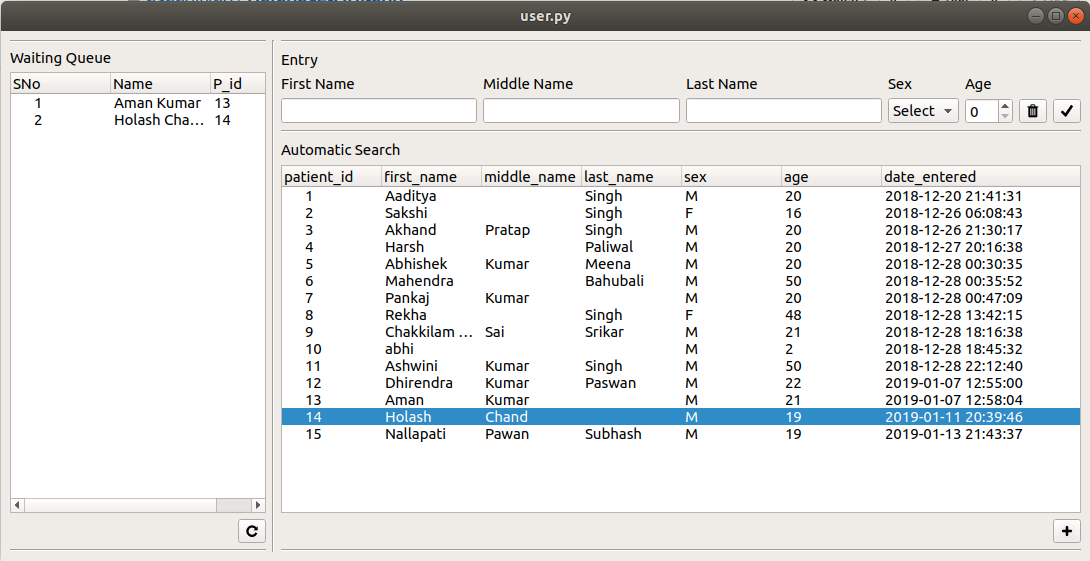
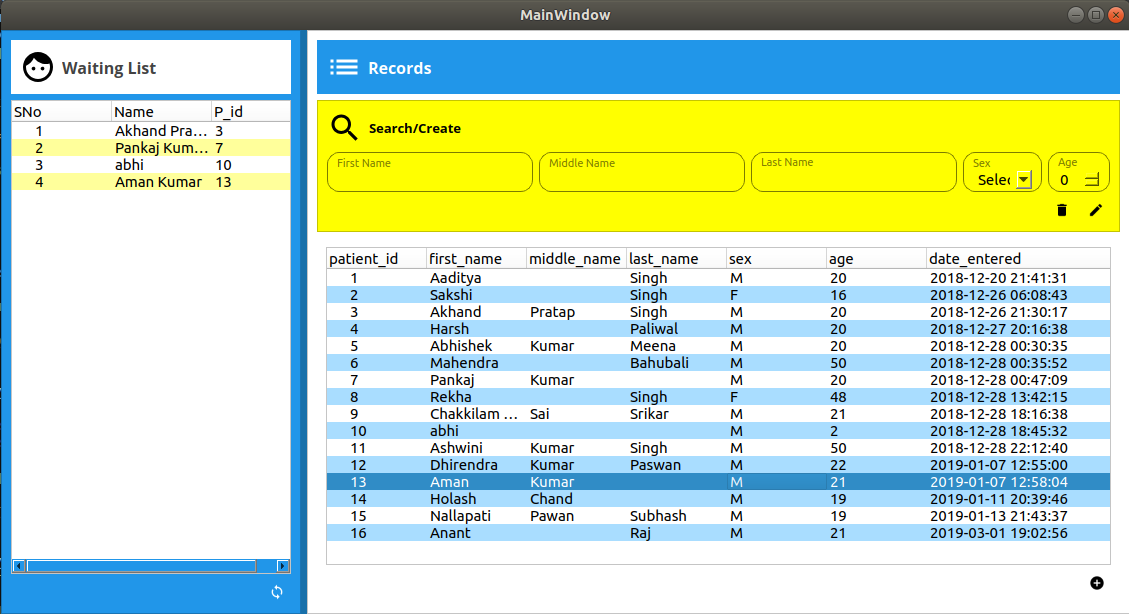
Added alternate row color and updated screenshot.

diff --git a/entry.py b/entry.py
@@ -1,44 +1,39 @@
-import sys
-from PyQt5 import QtWidgets, uic
+from PyQt5 import QtWidgets
 from PyQt5.QtCore import pyqtSlot
-from queue import Queue
 
-import DB_manager
 from utils import SimpleHandler, DBHandler
 
 
 class Entry(QtWidgets.QWidget):
     """docstring for App"""
 
-    def __init__(self, database, id_table_name, visit_table_name, qu=None):
+    def __init__(self, app=None, database=None, id_table_name=None, visit_table_name=None, qu=None):
         super(Entry, self).__init__()
-        uic.loadUi('entry.ui', self)
-        self.setWindowTitle('APP Pyqt Gui')
-        self.setLayout(self.verticalLayout_3)
+        self.app = app
         self.dbu = database
         self.identityTable = id_table_name
         self.visitTable = visit_table_name
         self.qu = qu
 
         self.total_visits = self.dbu.GetTotalVisits(self.visitTable)[0][0]
-        self.inputs = {'fname': self.fnameLineEdit,
-                       'mname': self.mnameLineEdit,
-                       'lname': self.lnameLineEdit,
-                       'sex': self.sexComboBox,
-                       'age': self.ageSpinBox
+        self.inputs = {'fname': self.app.fnameLineEdit,
+                       'mname': self.app.mnameLineEdit,
+                       'lname': self.app.lnameLineEdit,
+                       'sex': self.app.sexComboBox,
+                       'age': self.app.ageSpinBox
                        }
 
         self.patient_id = None
         self.full_list_present = True
 
-        self.submitPushButton.setEnabled(False)
+        self.app.submitPushButton.setEnabled(False)
         self.inputs['sex'].addItems(['Select', 'M', 'F'])
 
-        self.clearPushButton.clicked.connect(self.reset_age)
-        self.clearPushButton.clicked.connect(self.reset_sex)
-        self.submitPushButton.clicked.connect(self.submit)
-        self.treeWidget.itemClicked.connect(self.save_for_queue)
-        self.addPushButton.clicked.connect(self.add_to_queue)
+        self.app.clearPushButton.clicked.connect(self.reset_age)
+        self.app.clearPushButton.clicked.connect(self.reset_sex)
+        self.app.submitPushButton.clicked.connect(self.submit)
+        self.app.treeWidget.itemClicked.connect(self.save_for_queue)
+        self.app.addPushButton.clicked.connect(self.add_to_queue)
 
         self.inputs['fname'].textChanged.connect(self.query)
         self.inputs['mname'].textChanged.connect(self.query)
@@ -108,11 +103,11 @@ class Entry(QtWidgets.QWidget):
 
     @pyqtSlot()
     def enableSubmitButton(self):
-        self.submitPushButton.setEnabled(True)
+        self.app.submitPushButton.setEnabled(True)
 
     @pyqtSlot()
     def submit(self):
-        self.submitPushButton.setEnabled(False)
+        self.app.submitPushButton.setEnabled(False)
         fname = self.inputs['fname'].text()
         mname = self.inputs['mname'].text()
         lname = self.inputs['lname'].text()
@@ -131,25 +126,15 @@ class Entry(QtWidgets.QWidget):
     def update_tree(self, data):
         col, table = data
         for c in range(len(col)):
-            self.treeWidget.headerItem().setText(c, col[c][0])
+            self.app.treeWidget.headerItem().setText(c, col[c][0])
 
-        self.treeWidget.clear()
+        self.app.treeWidget.clear()
 
         for item in range(len(table)):
-            QtWidgets.QTreeWidgetItem(self.treeWidget)
+            QtWidgets.QTreeWidgetItem(self.app.treeWidget)
             for value in range(len(table[item])):
-                self.treeWidget.topLevelItem(item).setText(value, str(table[item][value]))
+                self.app.treeWidget.topLevelItem(item).setText(value, str(table[item][value]))
 
 
 if __name__ == '__main__':
-
-    db = 'patient_try'
-    identityTable = 'patient'
-    visitTable = 'visits'
-    dbu = DB_manager.DatabaseUtility(db)
-    app = QtWidgets.QApplication(sys.argv)
-    widget = Entry(dbu, identityTable, visitTable, Queue())
-    widget.show()
-    app.exec_()
-    dbu.__del__()
-    app.exit()
+    pass

diff --git a/katar.py b/katar.py
@@ -1,24 +1,20 @@
-import sys
-from queue import Queue
-
 from PyQt5 import QtWidgets, uic
 from PyQt5.QtCore import pyqtSlot
 
-import DB_manager
 from utils import SimpleHandler
 
 
 class Katar(QtWidgets.QWidget):
 
-    def __init__(self, dbu=None, id_table=None, visit_table=None, qu=None):
+    def __init__(self, app=None, dbu=None, id_table=None, visit_table=None, qu=None):
         super(Katar, self).__init__()
-        uic.loadUi('katar.ui', self)
+        self.app = app
         self.dbu = dbu
         self.id_table = id_table
         self.visit_table = visit_table
         self.qu = qu
-        self.setLayout(self.verticalLayout)
-        self.refreshPushButton.clicked.connect(self.update_queue)
+        self.app.setLayout(self.app.verticalLayout)
+        self.app.refreshPushButton.clicked.connect(self.update_queue)
         self.update_queue()
 
     @pyqtSlot(list)
@@ -26,14 +22,14 @@ class Katar(QtWidgets.QWidget):
         col = [['SNo'], ['Name'], ['P_id']]
 
         for c in range(len(col)):
-            self.queueWidget.headerItem().setText(c, col[c][0])
+            self.app.queueTreeWidget.headerItem().setText(c, col[c][0])
 
-        self.queueWidget.clear()
+        self.app.queueTreeWidget.clear()
 
         for item in range(len(table)):
-            QtWidgets.QTreeWidgetItem(self.queueWidget)
+            QtWidgets.QTreeWidgetItem(self.app.queueTreeWidget)
             for value in range(len(table[item])):
-                self.queueWidget.topLevelItem(item).setText(value, str(table[item][value]))
+                self.app.queueTreeWidget.topLevelItem(item).setText(value, str(table[item][value]))
 
     @pyqtSlot()
     def update_queue(self):
@@ -43,13 +39,4 @@ class Katar(QtWidgets.QWidget):
 
 
 if __name__ == '__main__':
-    db = 'patient_try'
-    identityTable = 'patient'
-    visitTable = 'visits'
-    dbu = DB_manager.DatabaseUtility(db)
-    app = QtWidgets.QApplication(sys.argv)
-    widget = Katar(dbu, identityTable, visitTable, Queue())
-    widget.show()
-    app.exec_()
-    dbu.__del__()
-    app.exit()
+    pass

diff --git a/user.py b/user.py
@@ -1,11 +1,7 @@
 import sys
 from queue import Queue
 
-from PyQt5 import QtWidgets
-from PyQt5.QtCore import QLine
-from PyQt5.QtGui import QIcon
-from PyQt5.QtWidgets import QSizePolicy, QFrame
-
+from PyQt5 import QtWidgets, uic
 import entry
 import katar
 import DB_manager
@@ -15,6 +11,7 @@ from utils import Worker
 class Window(QtWidgets.QMainWindow):
     def __init__(self):
         super(Window, self).__init__()
+        uic.loadUi('material.ui', self)
 
         self.db = 'patient_try'
         self.identityTable = 'patient'
@@ -22,32 +19,16 @@ class Window(QtWidgets.QMainWindow):
         self.dbu = DB_manager.DatabaseUtility(self.db)
         self.qu = Queue()
         self.worker = Worker(qu=self.qu, parent=self)
-        self.katar_app = katar.Katar(self.dbu, self.identityTable, self.visitTable, self.qu)
-        self.entry_app = entry.Entry(self.dbu, self.identityTable, self.visitTable, self.qu)
-        self.entry_app.addPushButton.clicked.connect(self.katar_app.update_queue)
-
-        layout = QtWidgets.QHBoxLayout()
-        layout.addWidget(self.katar_app)
-        line = QFrame()
-        line.setFrameShadow(QFrame.Sunken)
-        line.setFrameShape(QFrame.VLine)
-        layout.addWidget(line)
-        layout.addWidget(self.entry_app)
-
-        widget = QtWidgets.QWidget()
-        widget.setLayout(layout)
-        self.setCentralWidget(widget)
+        self.entry_app = entry.Entry(self, self.dbu, self.identityTable, self.visitTable, self.qu)
+        self.katar_app = katar.Katar(self, self.dbu, self.identityTable, self.visitTable, self.qu)
+        self.addPushButton.clicked.connect(self.katar_app.update_queue)
 
         self.worker.start()
 
 
 if __name__ == '__main__':
     app = QtWidgets.QApplication(sys.argv)
-    _STYLESHEET = 'style2.qss'
-    with open(_STYLESHEET) as stylesheet:
-        app.setStyleSheet(stylesheet.read())
     w = Window()
     w.show()
     app.exec_()
     app.exit()
-
